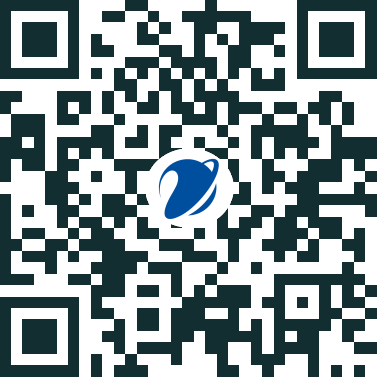
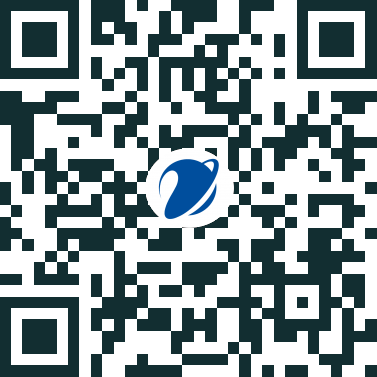
s
s

diff --git a/pages/manage.php b/pages/manage.php
@@ -102,7 +102,7 @@
         </div>
         <div class="w3-col" id="contentqrcode">
             <img src='./lib/images/vnpt.png' style='position:relative;display:block;width:240px;height:240px;margin:30px auto;' id="QRCode">
-        </di>
+        </div>
     </div>
     <div title="Về đầu trang" id="top-up">
     <i class="fas fa-arrow-circle-up"></i></div>
@@ -116,7 +116,7 @@
             $("#xemthongtinvungtrong").jqxButton({ width: 240, height: 40 });
             $("#xemdanhsachvungtrong").jqxButton({ width: 240, height: 40 });
             $("#themvungtrong").jqxButton({ width: 160, height: 40 });
-            $("#taoqrcode").jqxButton({ width: 160, height: 40 });
+            $("#taoqrcode").jqxButton({ width: 130, height: 40 });
             $(window).scroll(function () {
                 if ($(this).scrollTop() > offset)
                 $('#top-up').fadeIn(duration);else
@@ -210,8 +210,8 @@
                         type: 'POST',
                         url: 'go',
                         data: {
-                            for: "taomaqrcode",
-                            ID: mavungtrong
+                            for: "_taomaqrcode",
+                            mavungtrong: mavungtrong
                         }
                     }).done(function(data){
                         $('#QRCode').attr('src', data);

diff --git a/controllers/QrCode.php b/controllers/QrCode.php
@@ -3,12 +3,12 @@
 
     class CreateQRCode {
 
-        public function CreateQRcode($ID){
+        public function CreateQRcodeVungTrong($ID){
             $imgname ="qrcodefarm.png";
             $data = isset($_GET['data']) ? $_GET['data'] : "http://113.161.136.250:8181/qrcodefarm/go?check=_thongtinvungtrong&ID=".$ID;
             $logo = isset($_GET['logo']) ? $_GET['logo'] : './lib/images/vnpt.png';
             $sdir = explode("/",$_SERVER['REQUEST_URI']);
-            $dir = str_replace($sdir[count($sdir)-1],"",$_SERVER['REQUEST_URI']).'lib/images/';
+            $dir = str_replace($sdir[count($sdir)-1],"",$_SERVER['REQUEST_URI']);
             QRcode::png($data,$imgname,QR_ECLEVEL_L,11.45,0);
             $QR = imagecreatefrompng($imgname);
             if($logo !== FALSE){

diff --git a/goload.php b/goload.php
@@ -56,9 +56,9 @@
 
     if(isset($_POST['for'])) {
         switch ($_POST['for']) {
-            case "taomaqrcode":
-                $ID = $_POST['ID'];
-                $res = (new CreateQRCode())->CreateQRCode($ID);
+            case "_taomaqrcode":
+                $ID = $_POST['mavungtrong'];
+                $res = (new CreateQRCode())->CreateQRcodeVungTrong($ID);
                 echo $res;
             break;
             default:
